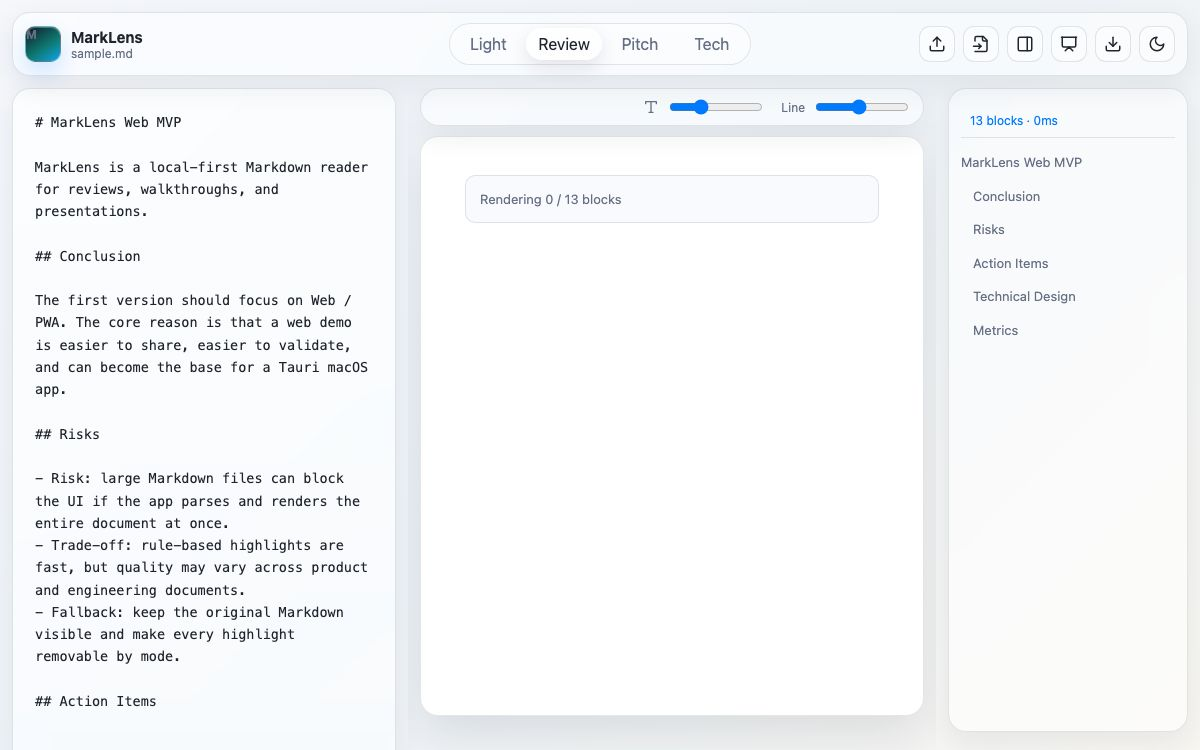
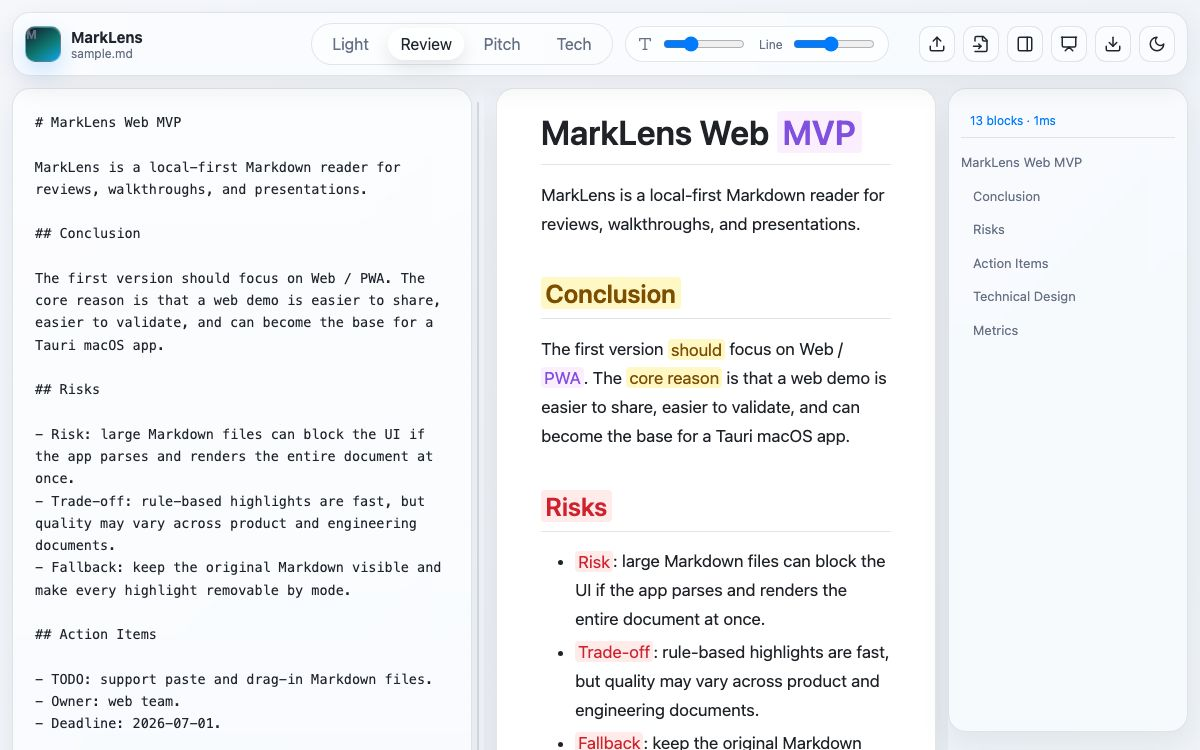
Fix asset caching and add resizable editor

diff --git a/apps/web/src/App.tsx b/apps/web/src/App.tsx
@@ -1,5 +1,7 @@
 import {
+  type CSSProperties,
   memo,
+  type PointerEvent as ReactPointerEvent,
   useEffect,
   useMemo,
   useRef,
@@ -46,6 +48,10 @@ export function App() {
   const [showOutline, setShowOutline] = useState(true)
   const [presentation, setPresentation] = useState(false)
   const [editorOpen, setEditorOpen] = useState(true)
+  const [editorWidth, setEditorWidth] = useState(() => {
+    const saved = Number(localStorage.getItem('highlightmd:editorWidth'))
+    return Number.isFinite(saved) && saved >= 280 ? saved : 460
+  })
   const [fileName, setFileName] = useState('sample.md')
   const [renderLimit, setRenderLimit] = useState(initialRenderBlocks)
   const [blocks, setBlocks] = useState<DocBlock[]>([])
@@ -154,6 +160,10 @@ export function App() {
   }, [theme])
 
   useEffect(() => {
+    localStorage.setItem('highlightmd:editorWidth', String(Math.round(editorWidth)))
+  }, [editorWidth])
+
+  useEffect(() => {
     function handleKeyDown(event: KeyboardEvent) {
       if (event.key === 'Escape') {
         setPresentation(false)
@@ -172,12 +182,6 @@ export function App() {
     file
       .text()
       .then((text) => {
-        if (text.length > maxAutosaveBytes) {
-          setEditorOpen(false)
-          if (editorRef.current) {
-            editorRef.current.value = ''
-          }
-        }
         setSource(text)
       })
       .catch(() => {
@@ -195,6 +199,27 @@ export function App() {
     anchor.download = `${fileName.replace(/\.md$/i, '') || 'highlightmd'}.html`
     anchor.click()
     URL.revokeObjectURL(href)
+  }
+
+  function startResize(event: ReactPointerEvent<HTMLButtonElement>) {
+    event.preventDefault()
+    const startX = event.clientX
+    const startWidth = editorWidth
+    const pointerId = event.pointerId
+    event.currentTarget.setPointerCapture(pointerId)
+
+    function handleMove(moveEvent: PointerEvent) {
+      const nextWidth = startWidth + moveEvent.clientX - startX
+      setEditorWidth(clamp(nextWidth, 300, Math.min(760, window.innerWidth - 560)))
+    }
+
+    function handleUp() {
+      window.removeEventListener('pointermove', handleMove)
+      window.removeEventListener('pointerup', handleUp)
+    }
+
+    window.addEventListener('pointermove', handleMove)
+    window.addEventListener('pointerup', handleUp)
   }
 
   return (
@@ -232,6 +257,30 @@ export function App() {
           ))}
         </div>
 
+        <div className="reader-controls">
+          <label>
+            <Type size={16} />
+            <input
+              max="24"
+              min="14"
+              type="range"
+              value={fontSize}
+              onChange={(event) => setFontSize(Number(event.target.value))}
+            />
+          </label>
+          <label>
+            Line
+            <input
+              max="2.1"
+              min="1.35"
+              step="0.05"
+              type="range"
+              value={lineHeight}
+              onChange={(event) => setLineHeight(Number(event.target.value))}
+            />
+          </label>
+        </div>
+
         <div className="toolbar">
           <label className="icon-button" title="Open Markdown">
             <Upload size={18} />
@@ -259,7 +308,10 @@ export function App() {
         </div>
       </header>
 
-      <main className="workspace">
+      <main
+        className="workspace"
+        style={editorOpen ? ({ '--editor-width': `${editorWidth}px` } as CSSProperties) : undefined}
+      >
         {editorOpen && (
           <aside className="editor-pane">
             <textarea
@@ -275,31 +327,17 @@ export function App() {
           </aside>
         )}
 
-        <section className="reader-pane">
-          <div className="reader-controls">
-            <label>
-              <Type size={16} />
-              <input
-                max="24"
-                min="14"
-                type="range"
-                value={fontSize}
-                onChange={(event) => setFontSize(Number(event.target.value))}
-              />
-            </label>
-            <label>
-              Line
-              <input
-                max="2.1"
-                min="1.35"
-                step="0.05"
-                type="range"
-                value={lineHeight}
-                onChange={(event) => setLineHeight(Number(event.target.value))}
-              />
-            </label>
-          </div>
+        {editorOpen && (
+          <button
+            aria-label="Resize editor"
+            className="resize-handle"
+            onPointerDown={startResize}
+            title="Resize editor"
+            type="button"
+          />
+        )}
 
+        <section className="reader-pane">
           <article
             className="markdown-body markdown-reader"
             style={{ fontSize, lineHeight }}
@@ -419,4 +457,8 @@ function scheduleIdle(callback: () => void) {
 
   const id = globalThis.setTimeout(callback, 16)
   return () => globalThis.clearTimeout(id)
+}
+
+function clamp(value: number, min: number, max: number) {
+  return Math.min(Math.max(value, min), max)
 }

diff --git a/apps/web/src/styles.css b/apps/web/src/styles.css
@@ -82,8 +82,8 @@ button {
   top: 12px;
   z-index: 20;
   display: grid;
-  grid-template-columns: minmax(180px, 1fr) auto minmax(180px, 1fr);
-  gap: 16px;
+  grid-template-columns: minmax(160px, 1fr) auto auto minmax(180px, 1fr);
+  gap: 12px;
   align-items: center;
   min-height: 58px;
   padding: 10px 12px;
@@ -215,14 +215,15 @@ button {
 
 .workspace {
   display: grid;
-  grid-template-columns: minmax(300px, 32vw) minmax(0, 1fr) 240px;
-  gap: 12px;
+  grid-template-columns: minmax(300px, var(--editor-width, 460px)) 12px minmax(0, 1fr) 240px;
+  gap: 0;
   min-height: calc(100vh - 94px);
   padding-top: 12px;
 }
 
 .reader-only .workspace {
   grid-template-columns: minmax(0, 1fr) 240px;
+  gap: 12px;
 }
 
 .editor-pane,
@@ -269,20 +270,26 @@ button {
   position: relative;
   min-width: 0;
   overflow: auto;
+  padding: 0 12px;
 }
 
 .reader-controls {
-  position: sticky;
-  top: 0;
-  z-index: 3;
   display: flex;
-  gap: 16px;
+  gap: 12px;
   align-items: center;
   justify-content: flex-end;
-  width: min(980px, calc(100% - 24px));
-  margin: 0 auto 10px;
-  padding: 8px 12px;
+  min-width: 250px;
+  padding: 7px 11px;
+  border: 1px solid var(--border);
   border-radius: 999px;
+  background: rgb(255 255 255 / 34%);
+  box-shadow: inset 0 1px 0 rgb(255 255 255 / 28%);
+  backdrop-filter: blur(16px) saturate(1.35);
+  -webkit-backdrop-filter: blur(16px) saturate(1.35);
+}
+
+:root[data-theme='dark'] .reader-controls {
+  background: rgb(255 255 255 / 7%);
 }
 
 .reader-controls label {
@@ -295,19 +302,48 @@ button {
 }
 
 .reader-controls input {
-  width: 94px;
+  width: 82px;
   accent-color: var(--accent);
 }
 
 .markdown-reader {
-  width: min(980px, calc(100% - 24px));
-  min-height: calc(100vh - 170px);
+  width: min(980px, 100%);
+  min-height: calc(100vh - 106px);
   margin: 0 auto 72px;
-  padding: 38px 44px 58px;
+  padding: 22px 44px 58px;
   border: 1px solid var(--border);
   border-radius: var(--radius-lg);
   background: var(--surface-solid);
   box-shadow: var(--shadow);
+}
+
+.resize-handle {
+  position: relative;
+  align-self: stretch;
+  width: 12px;
+  min-width: 12px;
+  border: 0;
+  background: transparent;
+  cursor: col-resize;
+}
+
+.resize-handle::before {
+  position: absolute;
+  top: 14px;
+  bottom: 14px;
+  left: 5px;
+  width: 2px;
+  border-radius: 999px;
+  background: rgb(14 23 38 / 12%);
+  content: '';
+  transition: background 140ms ease, width 140ms ease, left 140ms ease;
+}
+
+.resize-handle:hover::before,
+.resize-handle:active::before {
+  left: 4px;
+  width: 4px;
+  background: var(--accent);
 }
 
 :root[data-theme='dark'] .markdown-body {
@@ -554,7 +590,8 @@ button {
 .is-presentation .topbar,
 .is-presentation .editor-pane,
 .is-presentation .outline-pane,
-.is-presentation .reader-controls {
+.is-presentation .reader-controls,
+.is-presentation .resize-handle {
   display: none;
 }
 
@@ -596,7 +633,12 @@ button {
   .workspace,
   .reader-only .workspace {
     grid-template-columns: 1fr;
+    gap: 12px;
     min-height: auto;
+  }
+
+  .resize-handle {
+    display: none;
   }
 
   .editor-pane textarea {
@@ -615,6 +657,6 @@ button {
 
   .markdown-reader {
     width: 100%;
-    padding: 24px 18px 42px;
+    padding: 22px 18px 42px;
   }
 }

diff --git a/apps/web/public/service-worker.js b/apps/web/public/service-worker.js
@@ -1,4 +1,4 @@
-const CACHE_NAME = 'marklens-v2'
+const CACHE_NAME = 'marklens-v3'
 const APP_SHELL = ['/', '/manifest.webmanifest', '/icon.svg']
 
 self.addEventListener('install', (event) => {
@@ -15,6 +15,7 @@ self.addEventListener('activate', (event) => {
 
 self.addEventListener('fetch', (event) => {
   if (event.request.method !== 'GET') return
+  if (!event.request.url.startsWith('http://') && !event.request.url.startsWith('https://')) return
 
   if (event.request.mode === 'navigate') {
     event.respondWith(fetch(event.request).catch(() => caches.match('/')))
@@ -26,8 +27,14 @@ self.addEventListener('fetch', (event) => {
       return (
         cached ||
         fetch(event.request).then((response) => {
+          if (!response.ok) {
+            return response
+          }
+
           const copy = response.clone()
-          caches.open(CACHE_NAME).then((cache) => cache.put(event.request, copy))
+          caches.open(CACHE_NAME).then((cache) => cache.put(event.request, copy)).catch(() => {
+            // Extensions and browser internals can emit unsupported request schemes.
+          })
           return response
         })
       )
